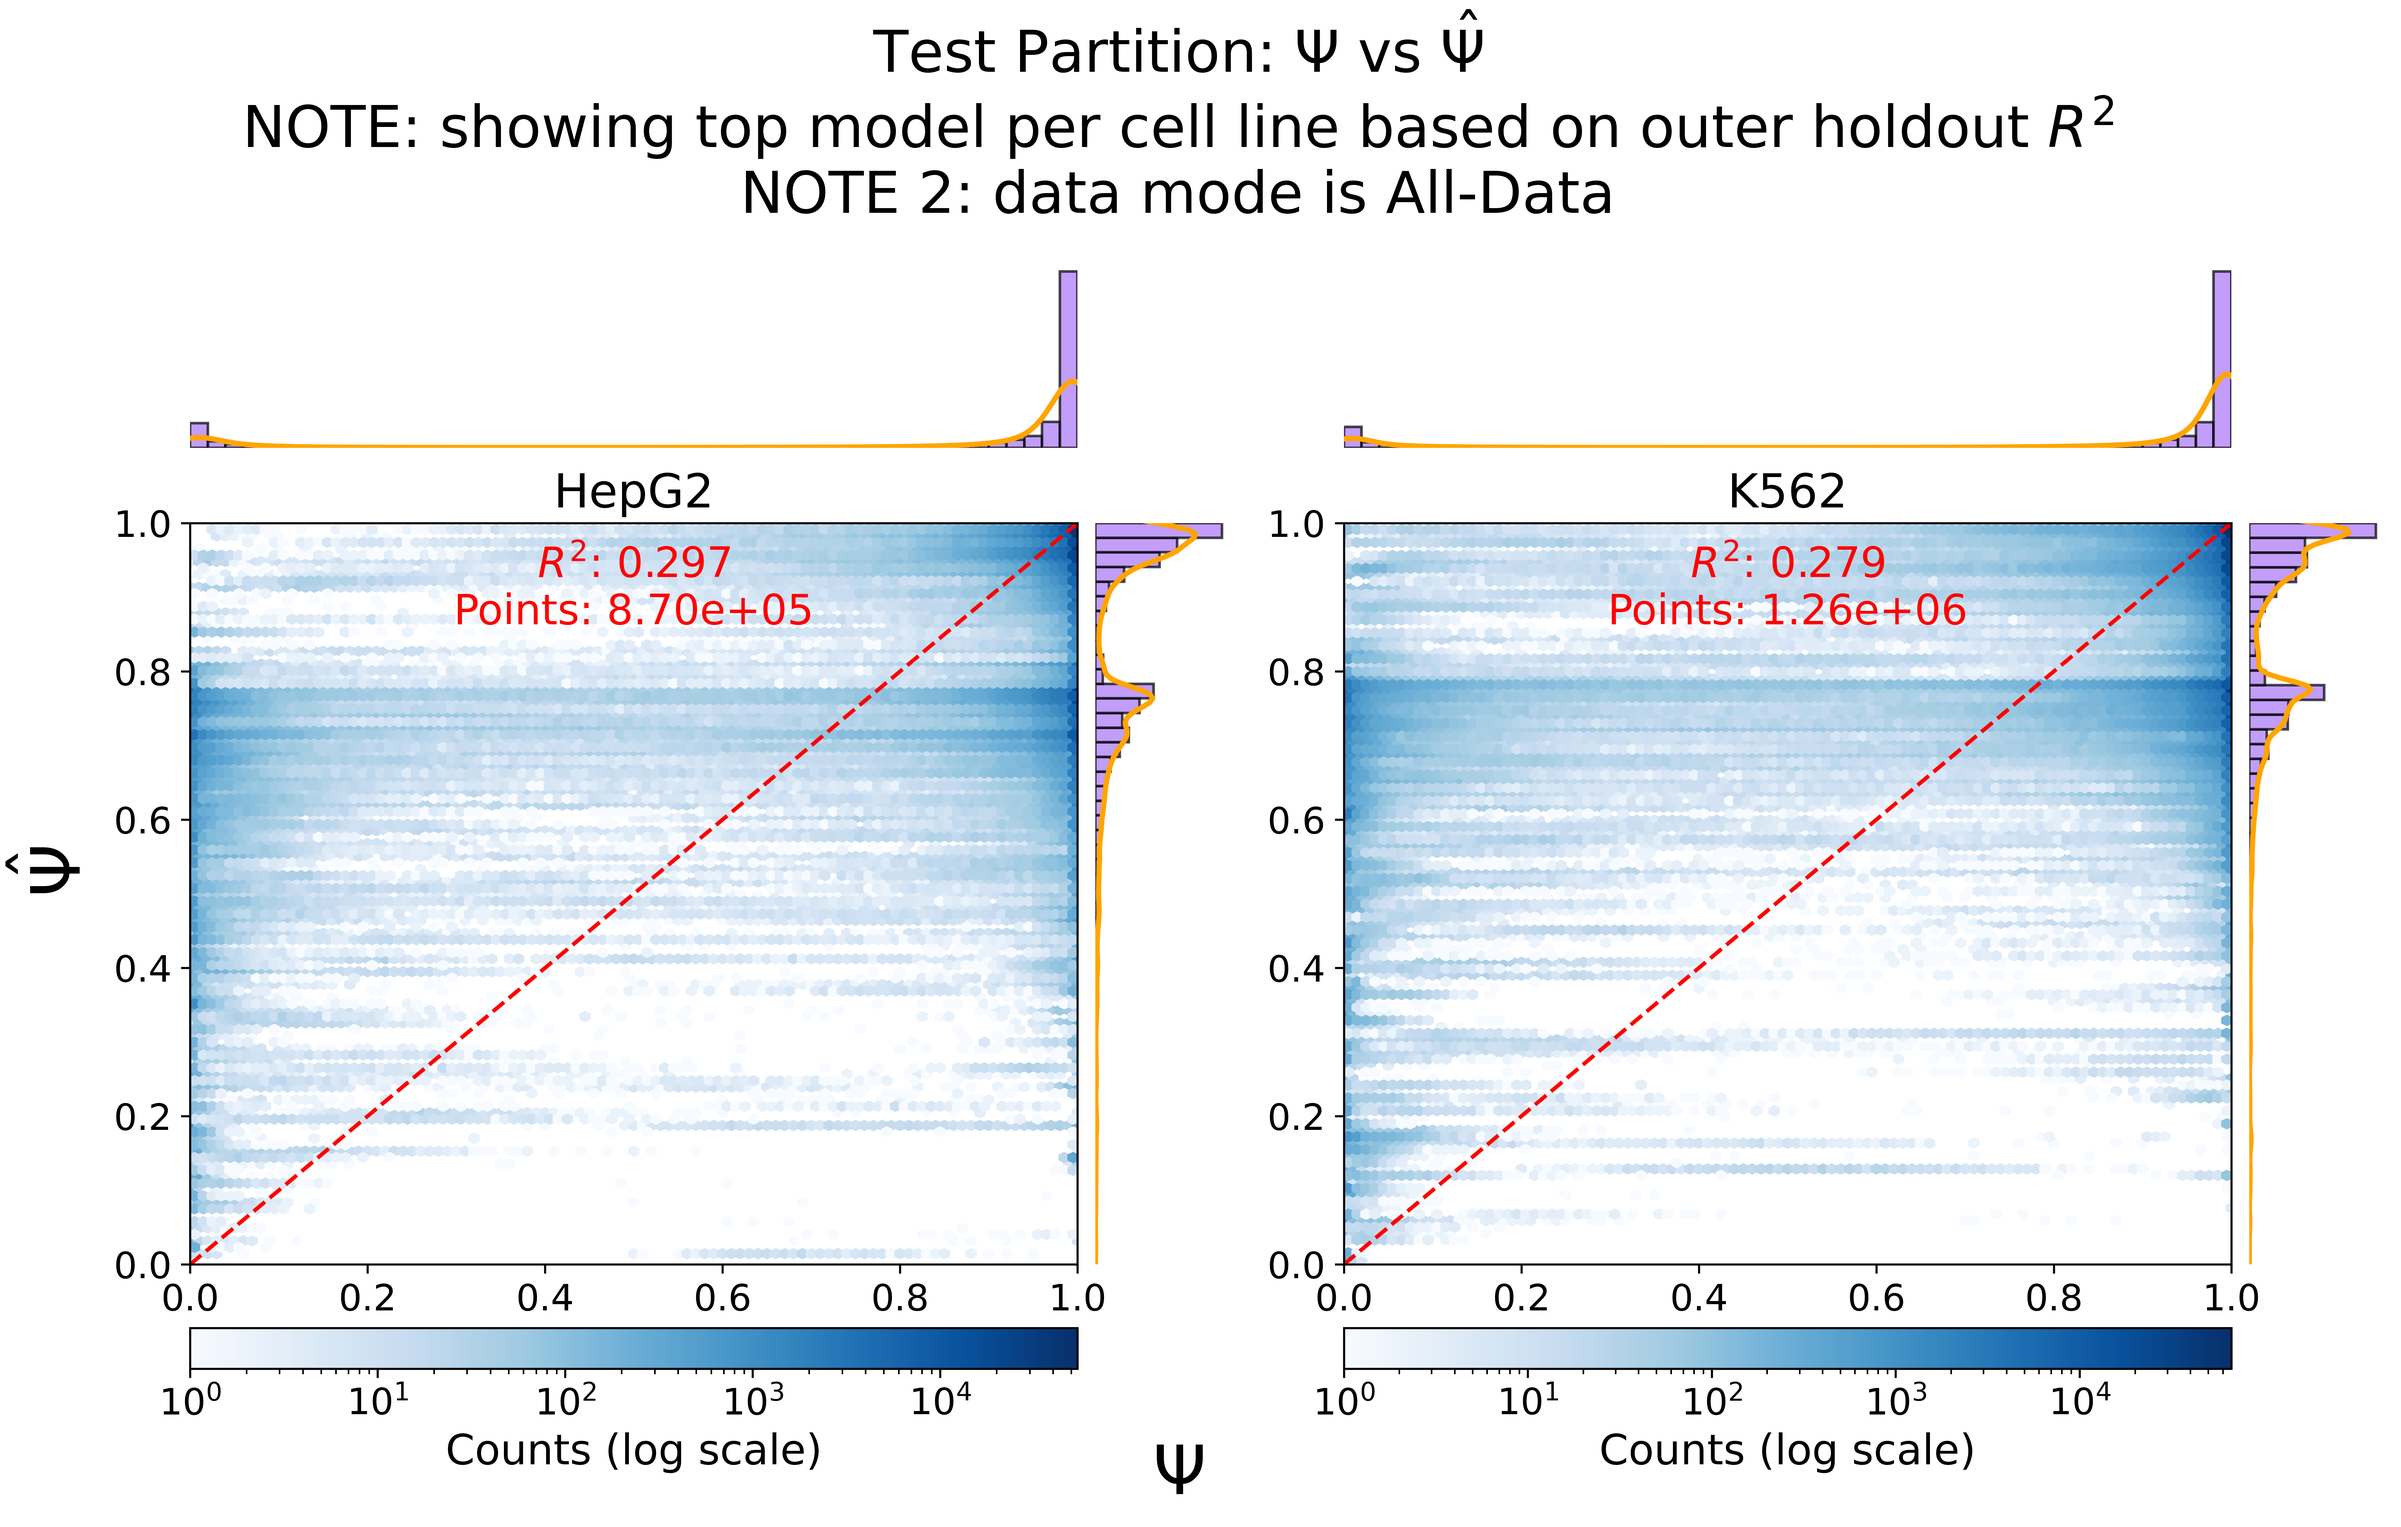
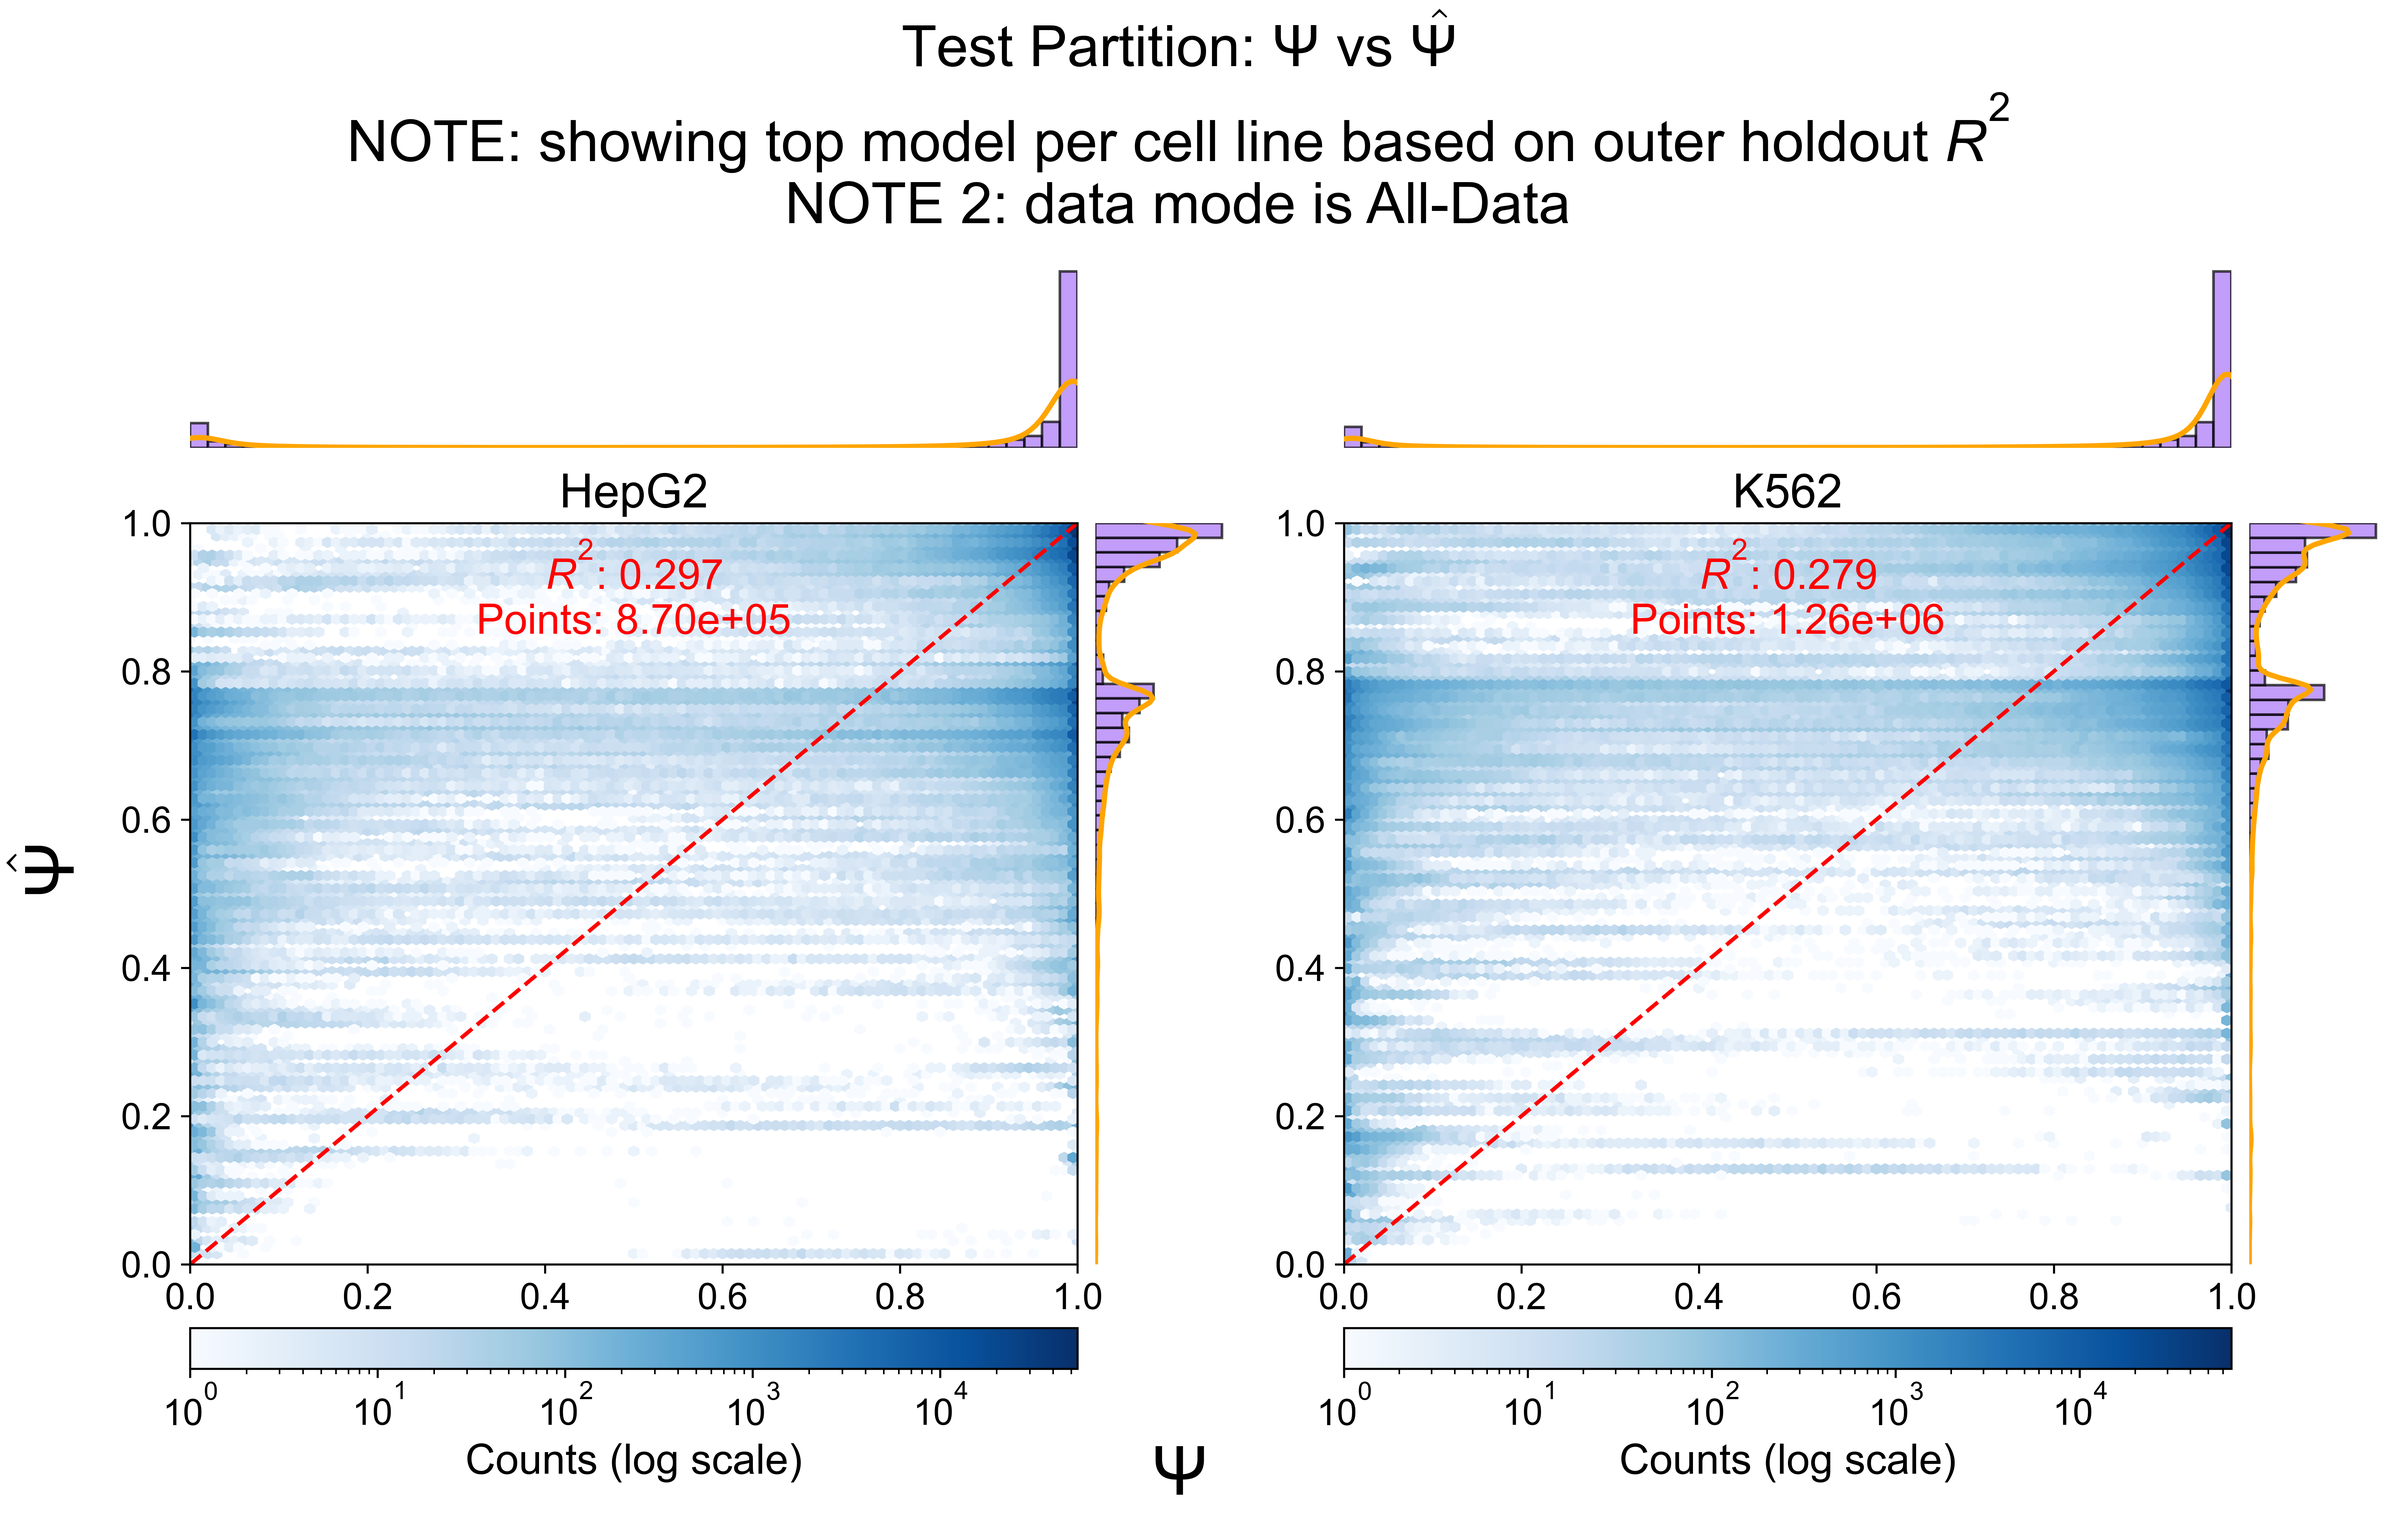
wrap the hexbin plots in paper mplstyle

diff --git a/analysis/06_first_order_SHAP_analysis/code/1_first_order_shap_investigator.py b/analysis/06_first_order_SHAP_analysis/code/1_first_order_shap_investigator.py
@@ -6221,89 +6221,91 @@ class FirstOrderShapInvestigator:
 
         # Set up a single figure with subplots for each cell line
         n = len(dfs)
-        fig = plt.figure(figsize=(7 * n, 7.2), dpi=100)
-        gs = gridspec.GridSpec(2, n, height_ratios=[1, 4], hspace=0.25, wspace=0.3)
 
-        hexbin_objs = []
-        for idx, (cell_line, df) in enumerate(dfs.items()):
-            # Main scatter/hexbin plot
-            ax_joint = fig.add_subplot(gs[1, idx])
-            hb = ax_joint.hexbin(
-                df["y_true"], df["y_pred"],
-                gridsize=100, cmap="Blues", norm=LogNorm(), mincnt=1
-            )
-            hexbin_objs.append(hb)
+        with plt.style.context('../../paper.mplstyle'): 
+            fig = plt.figure(figsize=(7 * n, 7.2), dpi=100)
+            gs = gridspec.GridSpec(2, n, height_ratios=[1, 4], hspace=0.25, wspace=0.3)
 
-            # Annotate R2 score and number of points at the center top (Test partition only)
-            ax_joint.text(
-                0.5, 0.97,
-                f"$R^2$: {r2_scores[cell_line]:.3f}\nPoints: {len(df):.2e}",
-                transform=ax_joint.transAxes,
-                fontsize=16, color="red",
-                ha="center", va="top"
-            )
+            hexbin_objs = []
+            for idx, (cell_line, df) in enumerate(dfs.items()):
+                # Main scatter/hexbin plot
+                ax_joint = fig.add_subplot(gs[1, idx])
+                hb = ax_joint.hexbin(
+                    df["y_true"], df["y_pred"],
+                    gridsize=100, cmap="Blues", norm=LogNorm(), mincnt=1
+                )
+                hexbin_objs.append(hb)
 
-            ax_joint.set_title(f"{cell_line}", fontsize=18)
-            ax_joint.tick_params(which='both', labelsize=14)
+                # Annotate R2 score and number of points at the center top (Test partition only)
+                ax_joint.text(
+                    0.5, 0.97,
+                    f"$R^2$: {r2_scores[cell_line]:.3f}\nPoints: {len(df):.2e}",
+                    transform=ax_joint.transAxes,
+                    fontsize=16, color="red",
+                    ha="center", va="top"
+                )
 
-            # Marginal histogram for x (top)
-            ax_histx = fig.add_subplot(gs[0, idx], sharex=ax_joint)
-            ax_histx.hist(df["y_true"], bins=50, color="#A874F7", alpha=0.7, density=True, edgecolor="black")
-            sns.kdeplot(df["y_true"], color="orange", lw=2, ax=ax_histx)
-            ax_histx.axis("off")
-            # Move the axis slightly down
-            pos = ax_histx.get_position()
-            ax_histx.set_position([pos.x0, pos.y0 - 0.03, pos.width, pos.height])
+                ax_joint.set_title(f"{cell_line}", fontsize=18)
+                ax_joint.tick_params(which='both', labelsize=14)
 
-            # Marginal histogram for y (right)
-            ax_histy = ax_joint.inset_axes([1.02, 0, 0.15, 1], sharey=ax_joint)
-            ax_histy.hist(df["y_pred"], bins=50, color="#A874F7", alpha=0.7, orientation="horizontal", density=True, edgecolor="black")
-            sns.kdeplot(df["y_pred"], color="orange", lw=2, ax=ax_histy, vertical=True)
-            ax_histy.axis("off")
+                # Marginal histogram for x (top)
+                ax_histx = fig.add_subplot(gs[0, idx], sharex=ax_joint)
+                ax_histx.hist(df["y_true"], bins=50, color="#A874F7", alpha=0.7, density=True, edgecolor="black")
+                sns.kdeplot(df["y_true"], color="orange", lw=2, ax=ax_histx)
+                ax_histx.axis("off")
+                # Move the axis slightly down
+                pos = ax_histx.get_position()
+                ax_histx.set_position([pos.x0, pos.y0 - 0.03, pos.width, pos.height])
 
-            if underlying_data != "Delta":
-                ax_histx.set_xlim(0, 1)
-                ax_histy.set_ylim(0, 1)
-                # Add line from (0,1) to (0,1)
-                ax_joint.plot([0, 1], [0, 1], color="red", linestyle="--", linewidth=1.5, label="y=x")
+                # Marginal histogram for y (right)
+                ax_histy = ax_joint.inset_axes([1.02, 0, 0.15, 1], sharey=ax_joint)
+                ax_histy.hist(df["y_pred"], bins=50, color="#A874F7", alpha=0.7, orientation="horizontal", density=True, edgecolor="black")
+                sns.kdeplot(df["y_pred"], color="orange", lw=2, ax=ax_histy, vertical=True)
+                ax_histy.axis("off")
 
-        # Add a separate horizontal colorbar below each joint subplot
-        for idx in range(n):
-            ax_joint = fig.axes[2 * idx + 1]  # axes are [histx0, joint0, histx1, joint1, ...]
-            # Get the position of the joint axes in figure coordinates
-            pos = ax_joint.get_position()
-            # Manually specify the colorbar axes below the joint plot
-            cbar_height = 0.03
-            cbar_pad = 0.65
-            cbar_ax = fig.add_axes([
-                pos.x0,
-                pos.y0 - cbar_height - cbar_pad,  # ensure it's below the subplot
-                pos.width,
-                cbar_height
-            ])
+                if underlying_data != "Delta":
+                    ax_histx.set_xlim(0, 1)
+                    ax_histy.set_ylim(0, 1)
+                    # Add line from (0,1) to (0,1)
+                    ax_joint.plot([0, 1], [0, 1], color="red", linestyle="--", linewidth=1.5, label="y=x")
 
-            fig.colorbar(
-                hexbin_objs[idx],  # Use the PolyCollection from hexbin
-                cax=cbar_ax,
-                orientation='horizontal'
-            )
-            cbar_ax.set_xlabel('Counts (log scale)', fontsize=16)
-            cbar_ax.tick_params(labelsize=14)
+            # Add a separate horizontal colorbar below each joint subplot
+            for idx in range(n):
+                ax_joint = fig.axes[2 * idx + 1]  # axes are [histx0, joint0, histx1, joint1, ...]
+                # Get the position of the joint axes in figure coordinates
+                pos = ax_joint.get_position()
+                # Manually specify the colorbar axes below the joint plot
+                cbar_height = 0.03
+                cbar_pad = 0.65
+                cbar_ax = fig.add_axes([
+                    pos.x0,
+                    pos.y0 - cbar_height - cbar_pad,  # ensure it's below the subplot
+                    pos.width,
+                    cbar_height
+                ])
 
-        if underlying_data != "Delta": 
-            actual_label = self.latex_symbols["PSI"]["Actual"]
-            predicted_label = self.latex_symbols["PSI"]["Predicted"]
-        else: 
-            actual_label = self.latex_symbols["Differential Symbols"]["dPSI"]
-            predicted_label = self.latex_symbols["Differential Symbols"]["dPred"]
+                fig.colorbar(
+                    hexbin_objs[idx],  # Use the PolyCollection from hexbin
+                    cax=cbar_ax,
+                    orientation='horizontal'
+                )
+                cbar_ax.set_xlabel('Counts (log scale)', fontsize=16)
+                cbar_ax.tick_params(labelsize=14)
 
-        fig.suptitle(f"Test Partition: {actual_label} vs {predicted_label}\nNOTE: showing top model per cell line based on outer holdout $R^2$\nNOTE 2: data mode is {underlying_data}", fontsize=22, y=1.03)
-        fig.supxlabel(actual_label, fontsize=26, y=-0.07)
-        fig.supylabel(predicted_label , fontsize=26, x=0.06, y=0.4)
-        plt.tight_layout()
+            if underlying_data != "Delta": 
+                actual_label = self.latex_symbols["PSI"]["Actual"]
+                predicted_label = self.latex_symbols["PSI"]["Predicted"]
+            else: 
+                actual_label = self.latex_symbols["Differential Symbols"]["dPSI"]
+                predicted_label = self.latex_symbols["Differential Symbols"]["dPred"]
 
-        plt.savefig(self.FIGURES["predicted_vs_actual_PSI_plot"][underlying_data], dpi=600, bbox_inches='tight')
-        plt.show()
+            fig.suptitle(f"Test Partition: {actual_label} vs {predicted_label}\nNOTE: showing top model per cell line based on outer holdout $R^2$\nNOTE 2: data mode is {underlying_data}", fontsize=22, y=1.03)
+            fig.supxlabel(actual_label, fontsize=26, y=-0.07)
+            fig.supylabel(predicted_label , fontsize=26, x=0.06, y=0.4)
+            plt.tight_layout()
+
+            plt.savefig(self.FIGURES["predicted_vs_actual_PSI_plot"][underlying_data], dpi=600, bbox_inches='tight')
+            plt.show()
 
         del dfs 
         gc.collect()
